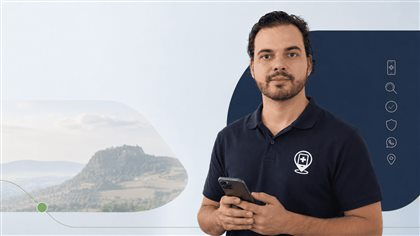
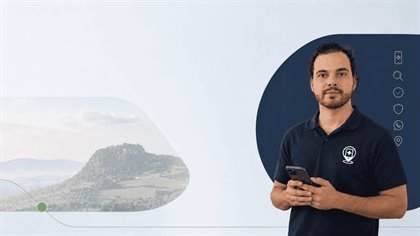
Replace light hero background image

diff --git a/style.css b/style.css
@@ -5051,7 +5051,7 @@ html[data-theme="light"] .concept-hero{
 }
 html[data-theme="light"] .concept-hero::before{
   background:
-    linear-gradient(90deg, rgba(248,253,255,.98) 0%, rgba(248,253,255,.90) 34%, rgba(248,253,255,.46) 60%, rgba(248,253,255,.08) 82%),
+    linear-gradient(90deg, rgba(248,253,255,.98) 0%, rgba(248,253,255,.94) 30%, rgba(248,253,255,.76) 46%, rgba(248,253,255,.18) 58%, rgba(248,253,255,.03) 70%),
     radial-gradient(560px 340px at 22% 52%, rgba(53,215,101,.09), transparent 72%);
 }
 html[data-theme="light"] .concept-badge{
@@ -5086,7 +5086,7 @@ html[data-theme="light"] .concept-hero__product--owner .hero-owner-picture--ligh
 @media (max-width: 820px){
   html[data-theme="light"] .concept-hero::before{
     background:
-      linear-gradient(90deg, rgba(248,253,255,.99) 0%, rgba(248,253,255,.94) 48%, rgba(248,253,255,.56) 76%, rgba(248,253,255,.22) 100%),
+      linear-gradient(90deg, rgba(248,253,255,.99) 0%, rgba(248,253,255,.94) 56%, rgba(248,253,255,.38) 78%, rgba(248,253,255,.10) 100%),
       linear-gradient(180deg, rgba(248,253,255,.08), rgba(248,253,255,.82) 92%),
       radial-gradient(420px 300px at 20% 22%, rgba(53,215,101,.08), transparent 72%);
   }

diff --git a/sw.js b/sw.js
@@ -1,4 +1,4 @@
-const CACHE = "hn-v57";
+const CACHE = "hn-v58";
 const ASSETS = [
   "./",
   "./index.html",
